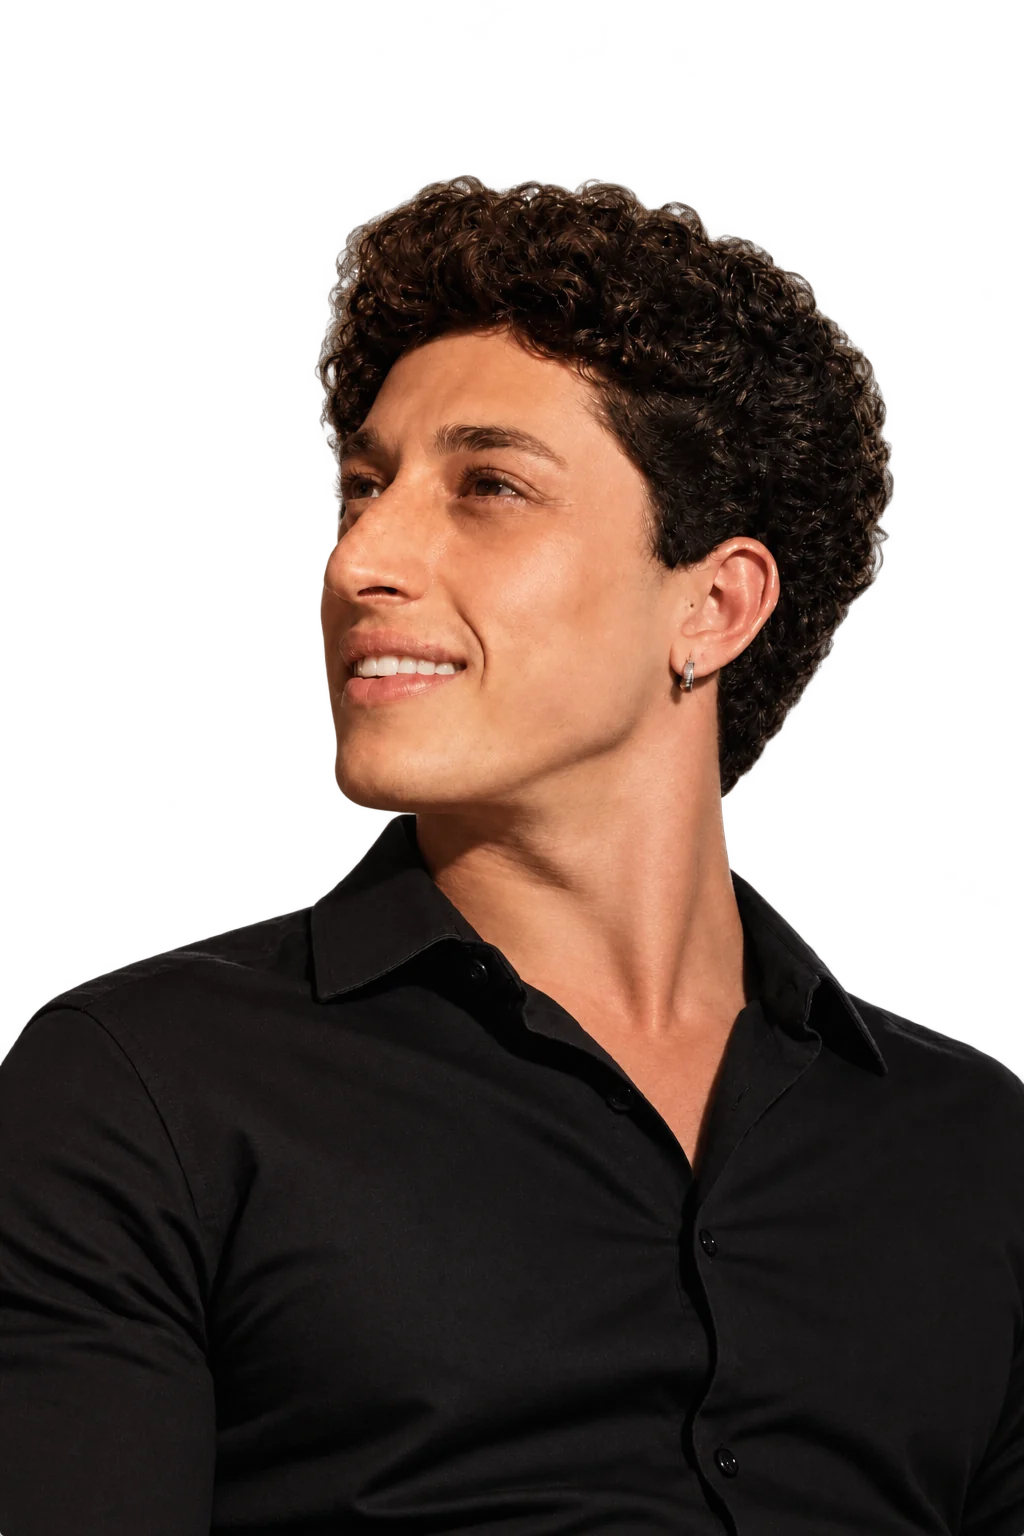
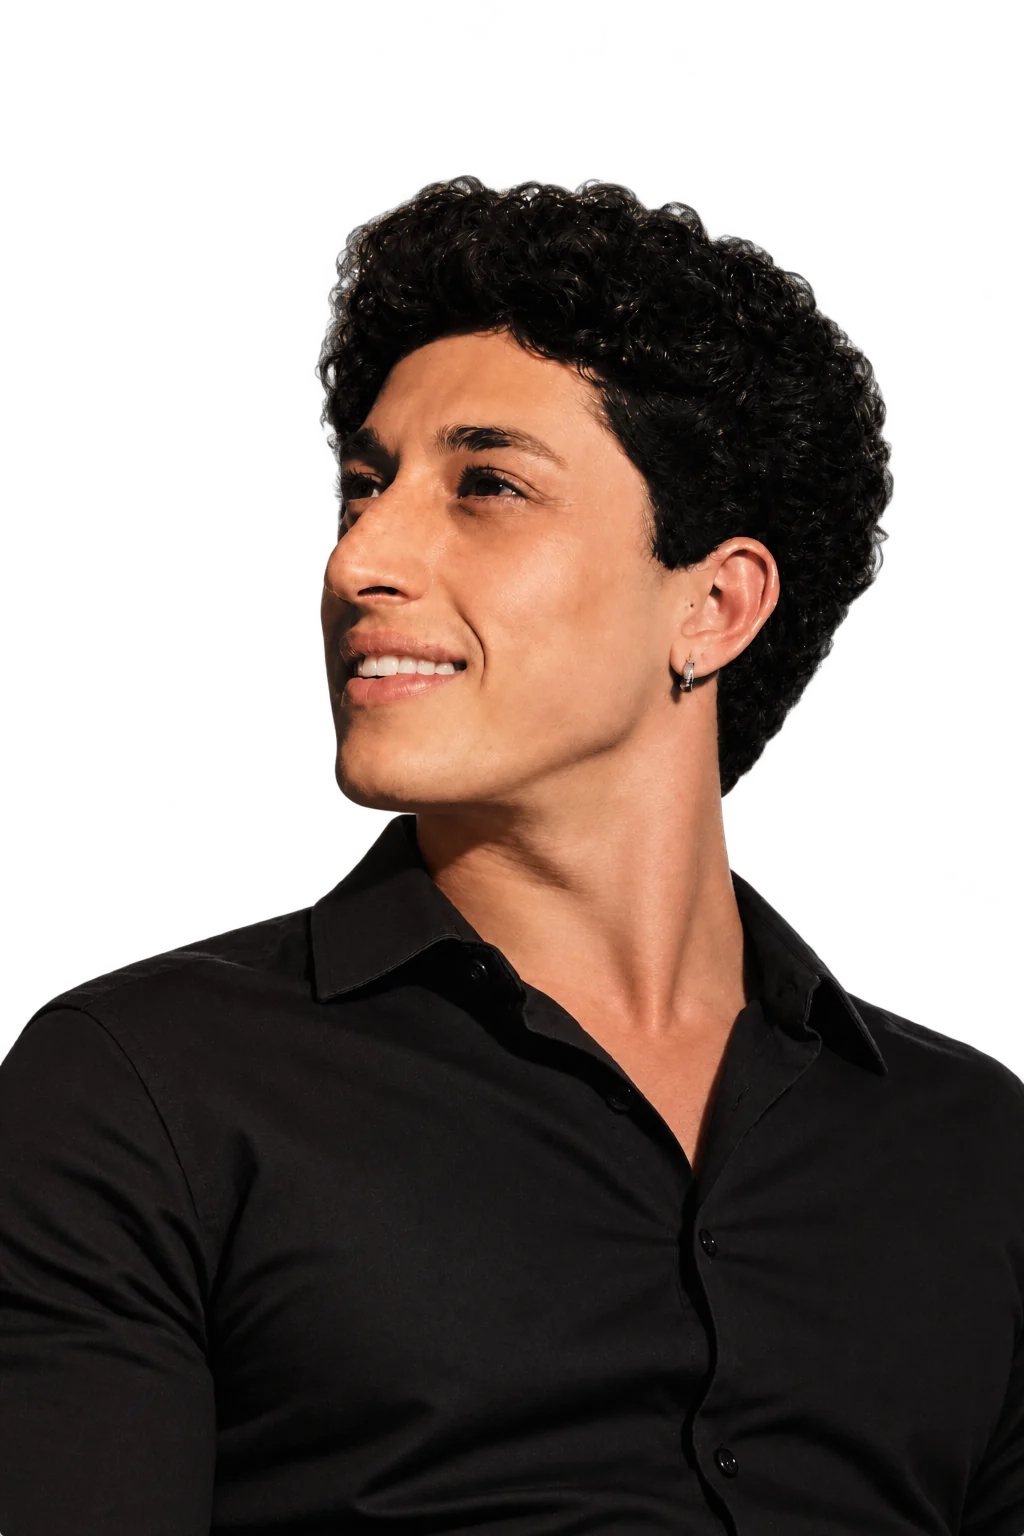
Hero: cabelo mais preto na foto

diff --git a/index.html b/index.html
@@ -33,7 +33,7 @@
   <link rel="preconnect" href="https://fonts.gstatic.com" crossorigin>
   <link href="https://fonts.googleapis.com/css2?family=Instrument+Serif:ital@0;1&family=Inter+Tight:wght@400;500;600;700&display=swap" rel="stylesheet">
   <!-- foto da hero (recorte com a luz pintada); o ?v= troca quando a foto muda, para o cache de 7 dias não segurar a antiga -->
-  <link rel="preload" as="image" href="img/gabriel-hero.webp?v=7" fetchpriority="high">
+  <link rel="preload" as="image" href="img/gabriel-hero.webp?v=8" fetchpriority="high">
   <!-- fundo da hero baixa junto com a página (antes só depois do CSS: a tela ficava laranja chapada por um instante) -->
   <link rel="preload" as="image" href="img/hero-fundo.webp?v=2" fetchpriority="high">
   <link rel="preload" as="image" href="img/hero-fundo-960.webp?v=2" media="(max-width: 860px), (max-aspect-ratio: 4/5), (orientation: landscape) and (max-height: 500px) and (max-width: 1000px)">
@@ -157,7 +157,7 @@
 
   <!-- Foto recortada: fica na frente do painel, como na referência -->
   <div class="person">
-    <img src="img/gabriel-hero.webp?v=7" alt="Gabriel Ribeiro, sorrindo e olhando para cima" width="1024" height="1536" fetchpriority="high">
+    <img src="img/gabriel-hero.webp?v=8" alt="Gabriel Ribeiro, sorrindo e olhando para cima" width="1024" height="1536" fetchpriority="high">
     <!-- luz de contorno: a luz quente do fundo "abraçando" a borda do cabelo, do rosto e dos ombros, por dentro do
          recorte (img/gabriel-luz.webp, gerada a partir do recorte e das cores do fundo atrás de cada ponto) -->
     <span class="person-rim" aria-hidden="true"></span>
